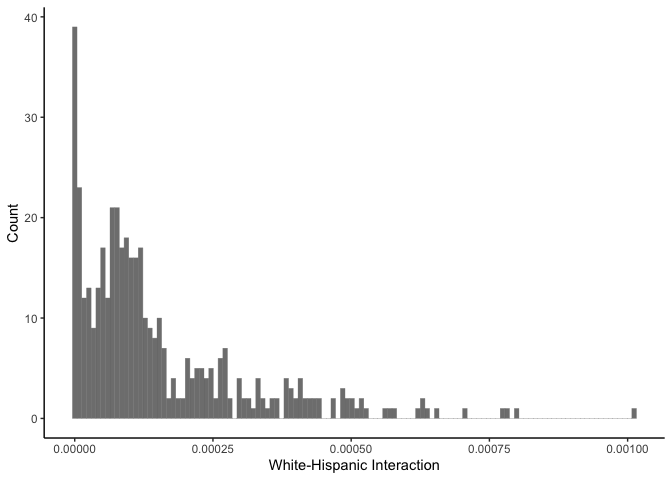
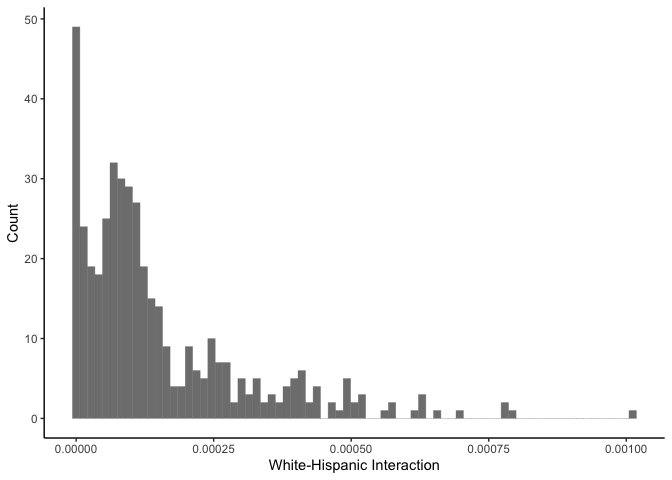
changed bin size for q2 historgrams

diff --git a/problem-sets/hw-2.md b/problem-sets/hw-2.md
@@ -153,7 +153,7 @@ q2 <- read_csv("/Users/kenjinchang/github/pam6950/q2.csv")
 
 ``` r
 ggplot(q2,aes(x=whitexhispanic)) +
-  geom_histogram(bins=120,color="gray50",size=.1,alpha=.8) +
+  geom_histogram(bins=75,color="gray50",size=.1,alpha=.8) +
   xlab("White-Hispanic Interaction") +
   ylab("Count") +
   theme_classic()
@@ -163,7 +163,7 @@ ggplot(q2,aes(x=whitexhispanic)) +
 
 ``` r
 ggplot(q2,aes(x=povxnopov)) +
-  geom_histogram(bins=120,color="gray50",size=.1,alpha=.8) +
+  geom_histogram(bins=75,color="gray50",size=.1,alpha=.8) +
   xlab("Poverty-No Poverty Interaction") +
   ylab("Count") +
   theme_classic()
